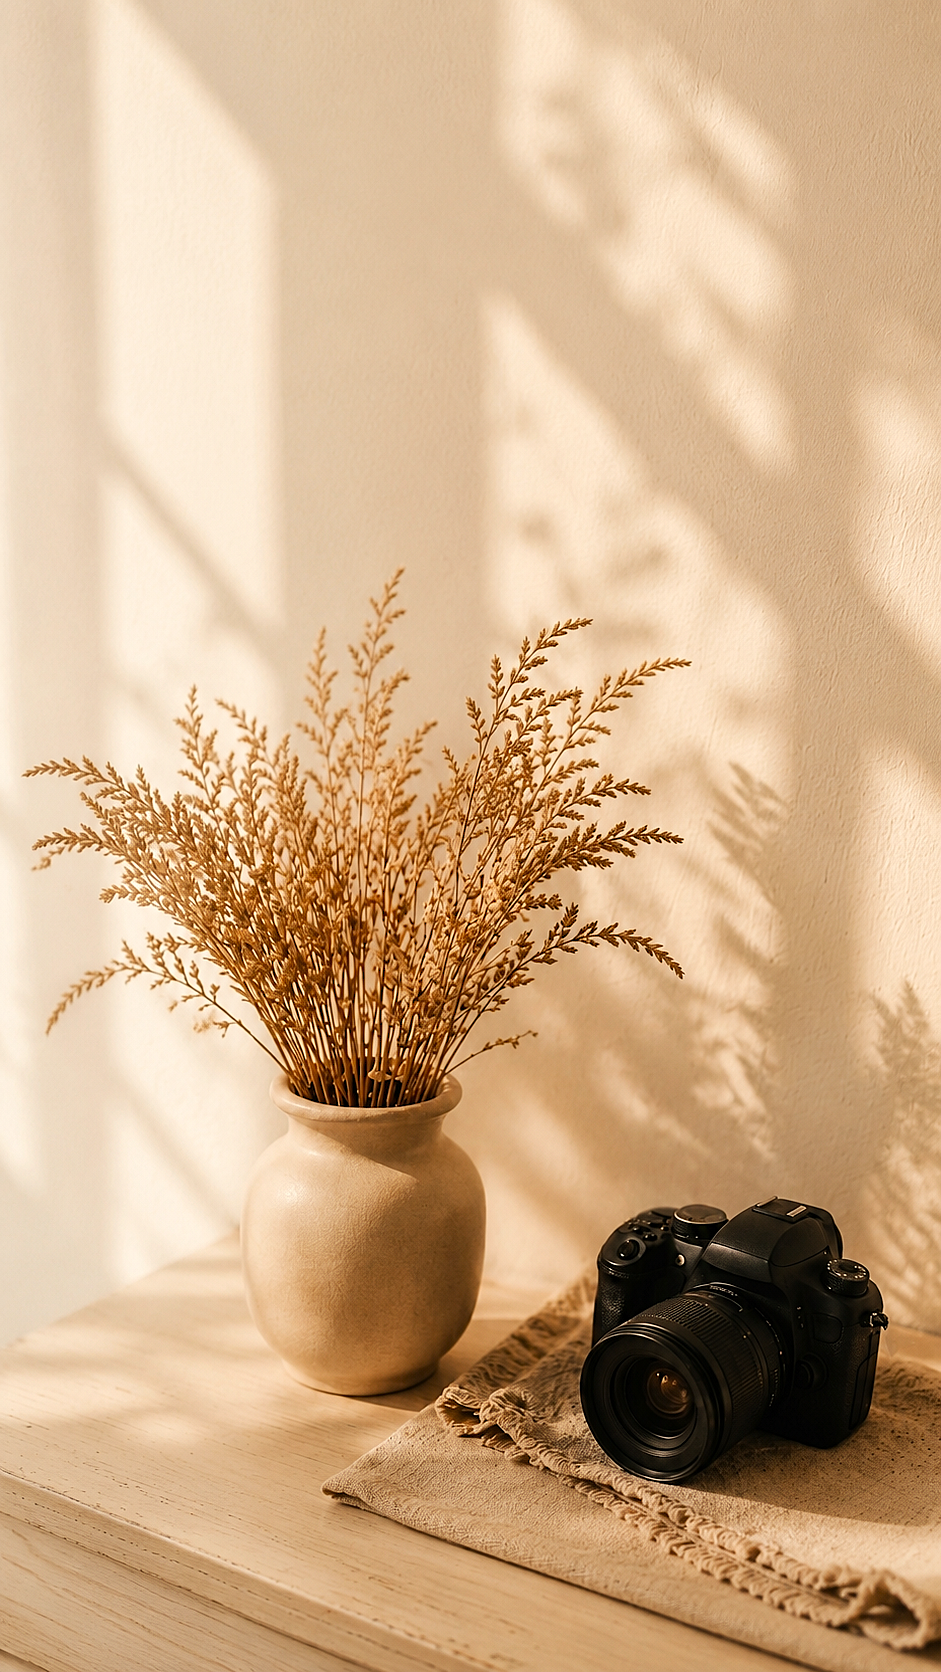
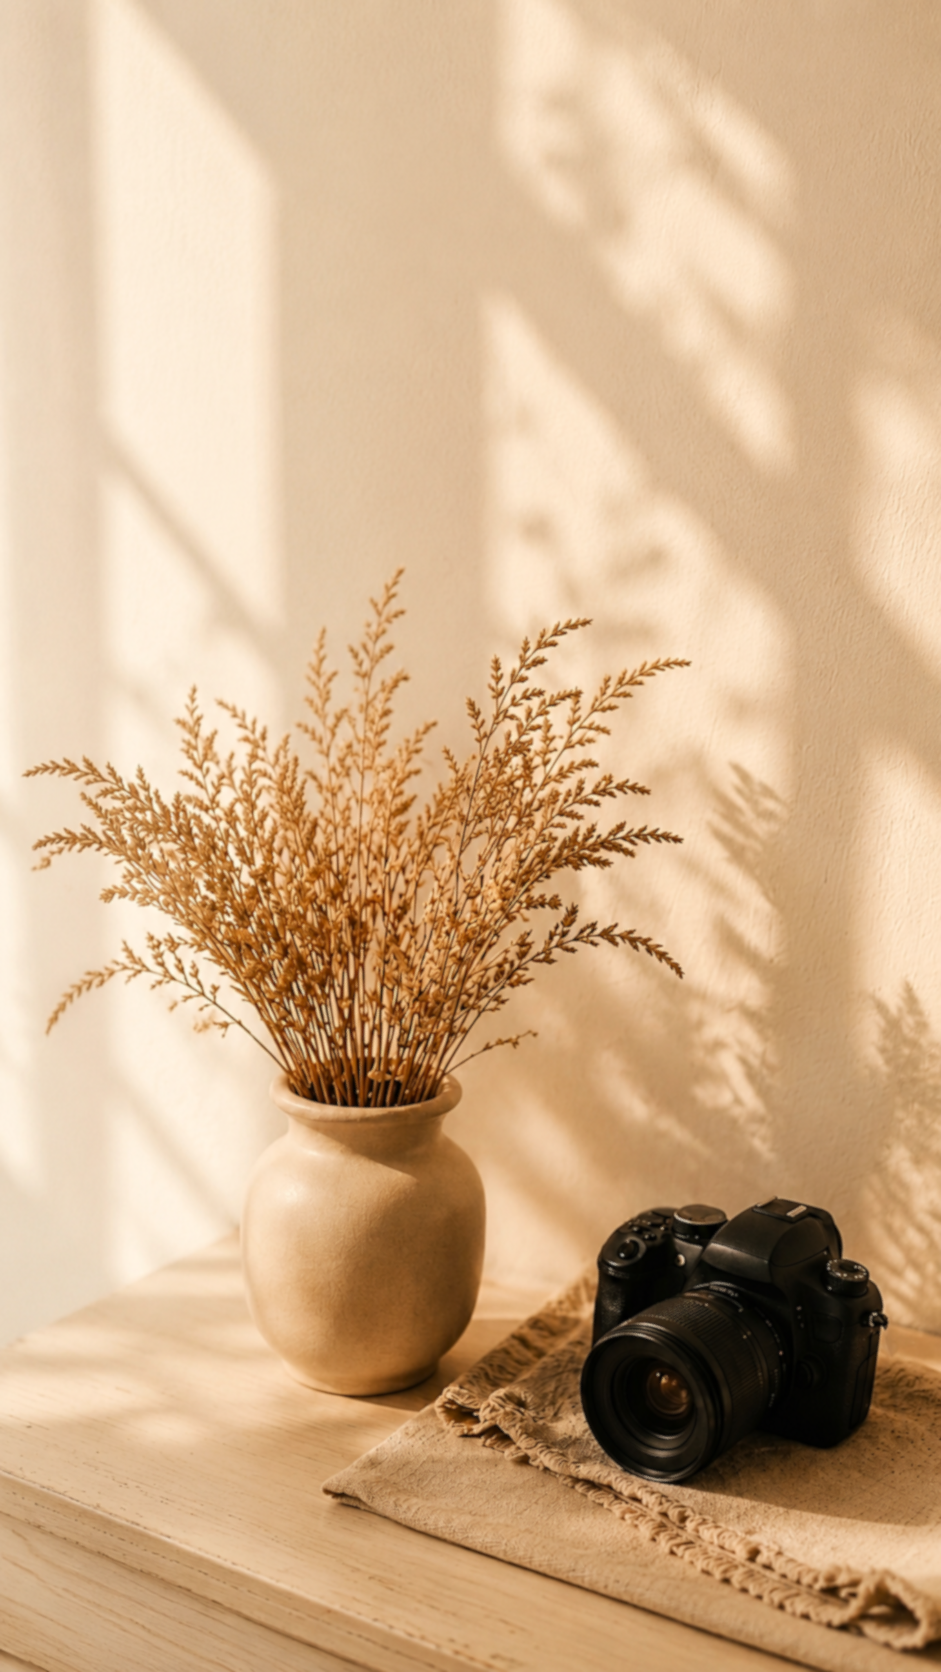
Enhance mobile responsiveness for Contact Us section; update styles and add mobile-specific assets

diff --git a/frontend/src/components/header.jsx b/frontend/src/components/header.jsx
@@ -41,6 +41,21 @@ const Header = () => {
     <header className="site-header">
       <div className="header-content">
 
+        <button
+          className={`menu-toggle ${menuOpen ? "is-open" : ""}`}
+          onClick={() => setMenuOpen((prev) => !prev)}
+          aria-expanded={menuOpen}
+          aria-controls="mobile-nav"
+          aria-label={menuOpen ? "Close menu" : "Open menu"}
+        >
+          <span className="menu-toggle-lines">
+            <span className="menu-line" />
+            <span className="menu-line" />
+            <span className="menu-line" />
+          </span>
+          <span className="menu-toggle-label">Menu</span>
+        </button>
+
         <div className="brand-logo">
           <img src={logo} alt="DreamFrame Studios Logo" />
         </div>
@@ -62,21 +77,6 @@ const Header = () => {
           <Link to="/contact-us#inquiry" className="book-session-btn">
             Book a Session
           </Link>
-
-          <button
-            className={`menu-toggle ${menuOpen ? "is-open" : ""}`}
-            onClick={() => setMenuOpen((prev) => !prev)}
-            aria-expanded={menuOpen}
-            aria-controls="mobile-nav"
-            aria-label={menuOpen ? "Close menu" : "Open menu"}
-          >
-            <span className="menu-toggle-label">Menu</span>
-            <span className="menu-toggle-lines">
-              <span className="menu-line" />
-              <span className="menu-line" />
-              <span className="menu-line" />
-            </span>
-          </button>
         </div>
 
       </div>

diff --git a/frontend/src/components/header.css b/frontend/src/components/header.css
@@ -137,6 +137,7 @@ body {
 
 /* ===========================
    MOBILE NAV PANEL + OVERLAY
+   Slides in from the LEFT
 =========================== */
 .mobile-nav-overlay {
   position: fixed;
@@ -156,12 +157,12 @@ body {
 .mobile-nav {
   position: fixed;
   top: 0;
-  right: 0;
+  left: 0;
   height: 100vh;
   width: 78%;
   max-width: 340px;
   background: #ffffff;
-  box-shadow: -10px 0 40px rgba(0, 0, 0, 0.15);
+  box-shadow: 10px 0 40px rgba(0, 0, 0, 0.15);
   z-index: 999;
 
   display: flex;
@@ -170,7 +171,7 @@ body {
   padding: 110px 36px 40px;
   box-sizing: border-box;
 
-  transform: translateX(100%);
+  transform: translateX(-100%);
   transition: transform 0.4s cubic-bezier(0.22, 1, 0.36, 1);
 }
 
@@ -188,7 +189,7 @@ body {
   border-bottom: 1px solid #eee;
 
   opacity: 0;
-  transform: translateX(20px);
+  transform: translateX(-20px);
   transition: opacity 0.4s ease, transform 0.4s ease, color 0.3s ease;
   transition-delay: var(--item-delay, 0s);
 }
@@ -219,7 +220,7 @@ body {
   padding: 16px 20px;
 
   opacity: 0;
-  transform: translateX(20px);
+  transform: translateX(-20px);
   transition: opacity 0.4s ease, transform 0.4s ease, background 0.3s ease;
   transition-delay: var(--item-delay, 0s);
 }
@@ -259,11 +260,15 @@ body {
   }
 
   .header-right {
-    gap: 0;
+    display: none;
   }
 
   .menu-toggle {
     display: flex;
+  }
+
+  .brand-logo {
+    margin-left: auto;
   }
 
   .brand-logo img {

diff --git a/frontend/src/components/footer.css b/frontend/src/components/footer.css
@@ -354,14 +354,27 @@
   }
 
   .footer-grid{
-    grid-template-columns:1fr;
-    gap:32px;
+    display:grid;
+    grid-template-columns:repeat(2,1fr);
+    gap:22px 10px;
     padding-bottom:30px;
   }
 
   .footer-grid > div{
     border:none !important;
     padding-left:0 !important;
+  }
+
+  .footer-about{
+    grid-column:1 / -1;
+  }
+
+  .footer-newsletter{
+    grid-column:1 / -1;
+  }
+
+  .footer-links-column:nth-of-type(4){
+    display:none;
   }
 
   .footer-about,
@@ -397,18 +410,18 @@
 
   .footer-links-column h4,
   .footer-newsletter h4{
-    margin-bottom:16px;
+    margin-bottom:14px;
     font-size:12px;
-    letter-spacing:1.8px;
+    letter-spacing:1.5px;
   }
 
   .footer-links-column{
-    gap:10px;
+    gap:9px;
   }
 
   .footer-links-column a{
     margin:0 auto;
-    font-size:15px;
+    font-size:14px;
   }
 
   .footer-newsletter{

diff --git a/frontend/src/components/ContactUsGrid.css b/frontend/src/components/ContactUsGrid.css
@@ -363,17 +363,43 @@
     min-height: 280px;
   }
 }
-
 @media (max-width: 640px) {
   .contact-grid {
-    grid-template-columns: 1fr;
+    grid-template-columns: repeat(2, 1fr);
+    gap: 16px;
+  }
+
+  .contact-card {
+    padding: 28px 16px;
+  }
+
+  .contact-card-icon {
+    width: 52px;
+    height: 52px;
+    font-size: 18px;
+    margin-bottom: 16px;
+  }
+
+  .contact-card h3 {
+    font-size: 11px;
+    letter-spacing: 1.5px;
+    margin-bottom: 8px;
+  }
+
+  .contact-card-value {
+    font-size: 15px;
+    margin-bottom: 14px;
+  }
+
+  .contact-card-link {
+    font-size: 11px;
   }
 
   .contact-grid-title {
-    font-size: 38px;
+    font-size: 32px;
   }
 
   .contact-grid-section {
-    padding: 70px 6% 70px;
+    padding: 60px 5% 60px;
   }
 }

diff --git a/frontend/src/components/inquiryForm.css b/frontend/src/components/inquiryForm.css
@@ -448,6 +448,10 @@ font-size:38px;
 }
 
 @media (max-width:768px){
+.inquiry-close-btn{
+top:15px;
+right:15px;
+}
 
 .inquiry-overlay{
 padding:20px 15px;
